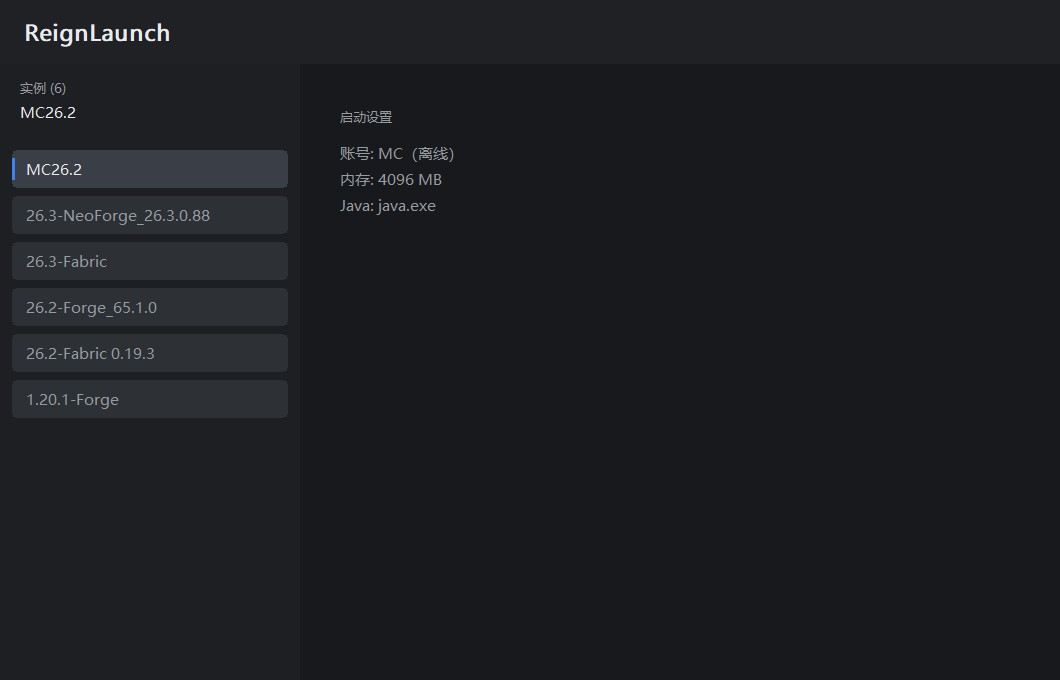
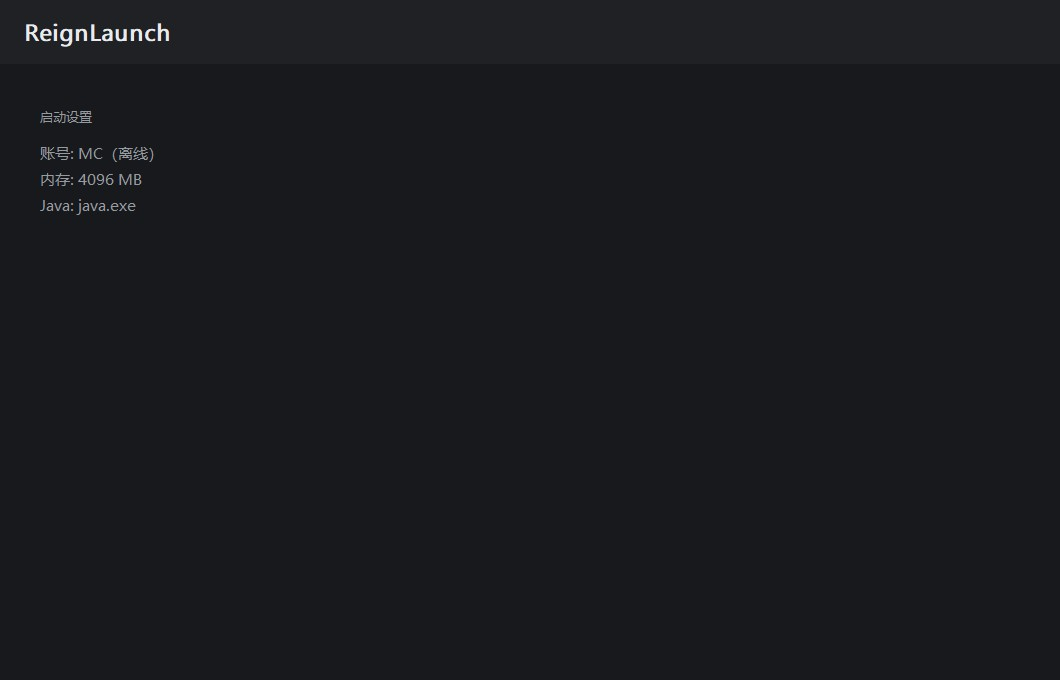
add Instances page; move arrow to right of launch button

diff --git a/src/ReignLaunch.cpp b/src/ReignLaunch.cpp
@@ -42,7 +42,7 @@ using json = nlohmann::json;
 #define IDI_APP         100   // 应用图标
 
 // ============================ 页面 ============================
-enum Page { PAGE_LAUNCH = 0, PAGE_USER = 1, PAGE_SETTINGS = 2, PAGE_ABOUT = 3 };
+enum Page { PAGE_LAUNCH = 0, PAGE_USER = 1, PAGE_SETTINGS = 2, PAGE_ABOUT = 3, PAGE_INSTANCES = 4 };
 
 // ============================ 配置 ============================
 struct Config {
@@ -81,7 +81,7 @@ static HWND g_hwnd = nullptr;
 static HFONT g_fTitle = nullptr, g_fUi = nullptr, g_fSmall = nullptr;
 
 // ============================ 控件 ============================
-static HWND hBtnTabLaunch, hBtnTabUser, hBtnTabSettings, hBtnTabAbout;
+static HWND hBtnTabLaunch, hBtnTabUser, hBtnTabSettings, hBtnTabAbout, hBtnTabInst;
 static HWND hBtnLaunch, hBtnFill, hBtnRefresh, hBtnInstArrow;
 
 static HWND hLblServer, hEdServer, hLblUser, hEdUser, hLblPass, hEdPass;
@@ -1145,6 +1145,7 @@ static std::string        g_loginErr;
 #define ID_TAB_USER     1002
 #define ID_TAB_SET      1003
 #define ID_TAB_ABOUT    1004
+#define ID_TAB_INST     1005
 #define ID_BTN_LAUNCH   1101
 #define ID_BTN_FILL     1102
 #define ID_BTN_REFRESH  1103
@@ -1222,7 +1223,7 @@ static RECT TabRect(int i) {
 static RECT LaunchBtnRect() {
     int pad = Scale(24), bw = Scale(260), bh = Scale(64);
     RECT r;
-    r.right = g_ly.main.right - pad;
+    r.right = g_ly.main.right - pad - Scale(52);
     r.left = r.right - bw;
     r.bottom = g_ly.main.bottom - pad;
     r.top = r.bottom - bh;
@@ -1245,8 +1246,8 @@ static void LayoutControls() {
     int w = g_ly.content.right, h = g_ly.content.bottom;
 
     // 顶部标签
-    HWND tabBtns[3] = { hBtnTabLaunch, hBtnTabUser, hBtnTabSettings };
-    for (int i = 0; i < 3; ++i) {
+    HWND tabBtns[4] = { hBtnTabLaunch, hBtnTabInst, hBtnTabUser, hBtnTabSettings };
+    for (int i = 0; i < 4; ++i) {
         RECT r = TabRect(i);
         MoveWindow(tabBtns[i], r.left, r.top, r.right - r.left, r.bottom - r.top, TRUE);
     }
@@ -1255,7 +1256,7 @@ static void LayoutControls() {
     {
         RECT b = LaunchBtnRect();
         MoveWindow(hBtnLaunch, b.left, b.top, b.right - b.left, b.bottom - b.top, TRUE);
-        MoveWindow(hBtnInstArrow, b.left - Scale(52), b.top, Scale(44), b.bottom - b.top, TRUE);
+        MoveWindow(hBtnInstArrow, b.right + Scale(8), b.top, Scale(44), b.bottom - b.top, TRUE);
         RECT s0 = SmallBtnRect(0), s1 = SmallBtnRect(1);
         MoveWindow(hBtnFill, s0.left, s0.top, s0.right - s0.left, s0.bottom - s0.top, TRUE);
         MoveWindow(hBtnRefresh, s1.left, s1.top, s1.right - s1.left, s1.bottom - s1.top, TRUE);
@@ -1318,6 +1319,7 @@ static void ShowPage(Page p) {
     ShowWindow(hBtnTabLaunch, SW_SHOW);
     ShowWindow(hBtnTabUser, SW_SHOW);
     ShowWindow(hBtnTabSettings, SW_SHOW);
+    ShowWindow(hBtnTabInst, SW_SHOW);
 
 
 
@@ -1573,50 +1575,12 @@ static void PaintMain(HDC dc, int w, int h) {
 
     // 当前页标题
     RECT pt = { g_ly.main.left + Scale(40), g_ly.content.top + Scale(12), g_ly.main.right, g_ly.content.top + Scale(44) };
-    const wchar_t* titles[] = { L"", L"用户", L"设置", L"关于" };
+    const wchar_t* titles[] = { L"", L"用户", L"设置", L"关于", L"" };
     if (g_page != PAGE_LAUNCH && g_page != PAGE_ABOUT) DrawTextIn(dc, titles[g_page], pt, C_DIM, g_fSmall);
 
     if (g_page == PAGE_LAUNCH) {
-        // 侧栏
-        RECT sb = g_ly.sidebar;
-        HBRUSH sbb = CreateSolidBrush(RGB(30, 31, 35));
-        FillRect(dc, &sb, sbb);
-        DeleteObject(sbb);
-
-        RECT lbl = { sb.left + Scale(20), sb.top + Scale(12), sb.right, sb.top + Scale(36) };
-        DrawTextIn(dc, L"实例 (" + std::to_wstring(g_versions.size()) + L")", lbl, C_DIM, g_fSmall);
-
-        std::wstring curInst = (g_selVersion >= 0 && g_selVersion < (int)g_versions.size())
-            ? U8ToW(g_versions[g_selVersion]) : std::wstring(L"（未选择）");
-        RECT curLbl = { sb.left + Scale(20), sb.top + Scale(32), sb.right - Scale(12), sb.top + Scale(64) };
-        DrawTextIn(dc, curInst, curLbl, C_TEXT, g_fUi);
-
-        int itemH = Scale(46);
-        int y = sb.top + Scale(86) - g_listScroll;
-        for (size_t i = 0; i < g_versions.size(); ++i) {
-            RECT item = { sb.left + Scale(12), y, sb.right - Scale(12), y + itemH - Scale(8) };
-            if (item.bottom > sb.top + Scale(86) && item.top < sb.bottom) {
-                bool sel = ((int)i == g_selVersion);
-                FillRoundRect(dc, item, 8, sel ? C_CARD_SEL : C_CARD);
-                RECT tx = item; tx.left += Scale(14);
-                DrawTextIn(dc, U8ToW(g_versions[i]), tx, sel ? C_TEXT : C_DIM, g_fUi);
-                if (sel) {
-                    RECT bar = { item.left, item.top + Scale(8), item.left + Scale(3), item.bottom - Scale(8) };
-                    HBRUSH b = CreateSolidBrush(C_ACCENT2);
-                    FillRect(dc, &bar, b);
-                    DeleteObject(b);
-                }
-            }
-            y += itemH;
-        }
-        if (g_versions.empty()) {
-            RECT e = { sb.left + Scale(20), sb.top + Scale(60), sb.right - Scale(20), sb.top + Scale(150) };
-            DrawTextIn(dc, L"没有找到版本\n请到【设置】里\n指定 .minecraft 目录", e, C_DIM, g_fSmall,
-                       DT_LEFT | DT_TOP | DT_WORDBREAK);
-        }
-
         // 主区信息
-        int x = g_ly.main.left + Scale(40);
+        int x = g_ly.content.left + Scale(40);
         RECT l1 = { x, g_ly.content.top + Scale(40), g_ly.main.right, g_ly.content.top + Scale(66) };
         DrawTextIn(dc, L"启动设置", l1, C_DIM, g_fSmall);
 
@@ -1686,6 +1650,37 @@ static void PaintMain(HDC dc, int w, int h) {
         DrawTextIn(dc, L"支持 authlib-injector 协议的认证服务器（如 LittleSkin）。\n"
                        L"authlib-injector 已内置在程序里，无需外部 jar。",
                    hint, C_DIM, g_fSmall, DT_LEFT | DT_TOP | DT_WORDBREAK);
+    }
+    else if (g_page == PAGE_INSTANCES) {
+        int x   = g_ly.content.left + Scale(24);
+        int top = g_ly.content.top + Scale(16);
+
+        RECT lbl = { x, top, g_ly.content.right - Scale(24), top + Scale(26) };
+        DrawTextIn(dc, L"实例 (" + std::to_wstring(g_versions.size()) + L")", lbl, C_DIM, g_fSmall);
+
+        int itemH = Scale(56);
+        int y = top + Scale(34) - g_listScroll;
+        for (size_t i = 0; i < g_versions.size(); ++i) {
+            RECT item = { x, y, g_ly.content.right - Scale(24), y + itemH - Scale(8) };
+            if (item.bottom > top + Scale(34) && item.top < g_ly.content.bottom) {
+                bool sel = ((int)i == g_selVersion);
+                FillRoundRect(dc, item, 8, sel ? C_CARD_SEL : C_CARD);
+                RECT tx = item; tx.left += Scale(16); tx.right -= Scale(12);
+                DrawTextIn(dc, U8ToW(g_versions[i]), tx, sel ? C_TEXT : C_DIM, g_fUi);
+                if (sel) {
+                    RECT bar = { item.left, item.top + Scale(8), item.left + Scale(3), item.bottom - Scale(8) };
+                    HBRUSH b = CreateSolidBrush(C_ACCENT2);
+                    FillRect(dc, &bar, b);
+                    DeleteObject(b);
+                }
+            }
+            y += itemH;
+        }
+        if (g_versions.empty()) {
+            RECT e = { x, top + Scale(50), g_ly.content.right - Scale(24), top + Scale(140) };
+            DrawTextIn(dc, L"没有找到实例\n请到【设置】里指定 .minecraft 目录", e, C_DIM, g_fSmall,
+                       DT_LEFT | DT_TOP | DT_WORDBREAK);
+        }
     }
     else if (g_page == PAGE_ABOUT) {
         DrawAboutBlock(dc);
@@ -1923,6 +1918,7 @@ static LRESULT CALLBACK MainProc(HWND hwnd, UINT msg, WPARAM wp, LPARAM lp) {
         hBtnTabUser     = MakeBtn(hwnd, L"用户", ID_TAB_USER);
         hBtnTabSettings = MakeBtn(hwnd, L"设置", ID_TAB_SET);
         hBtnTabAbout    = MakeBtn(hwnd, L"关于", ID_TAB_ABOUT);
+        hBtnTabInst     = MakeBtn(hwnd, L"实例", ID_TAB_INST);
 
         hBtnLaunch  = MakeBtn(hwnd, L"启动游戏", ID_BTN_LAUNCH);
         hBtnFill    = MakeBtn(hwnd, L"补全文件", ID_BTN_FILL);
@@ -1989,11 +1985,12 @@ static LRESULT CALLBACK MainProc(HWND hwnd, UINT msg, WPARAM wp, LPARAM lp) {
 
         int id = (int)d->CtlID;
         bool accent = (id == ID_BTN_LAUNCH || id == ID_BTN_LOGIN || id == ID_BTN_SAVE);
-        bool tab = (id == ID_TAB_LAUNCH || id == ID_TAB_USER || id == ID_TAB_SET || id == ID_TAB_ABOUT);
+        bool tab = (id == ID_TAB_LAUNCH || id == ID_TAB_USER || id == ID_TAB_SET || id == ID_TAB_ABOUT || id == ID_TAB_INST);
         bool activeTab = tab && ((id == ID_TAB_LAUNCH && g_page == PAGE_LAUNCH) ||
                                  (id == ID_TAB_USER && g_page == PAGE_USER) ||
                                  (id == ID_TAB_SET && g_page == PAGE_SETTINGS) ||
-                                 (id == ID_TAB_ABOUT && g_page == PAGE_ABOUT));
+                                 (id == ID_TAB_ABOUT && g_page == PAGE_ABOUT) ||
+                                 (id == ID_TAB_INST && g_page == PAGE_INSTANCES));
 
         COLORREF bg;
         if (accent) bg = (g_launching && id == ID_BTN_LAUNCH) ? C_CARD : (sel ? RGB(29, 78, 216) : C_ACCENT);
@@ -2055,6 +2052,19 @@ static LRESULT CALLBACK MainProc(HWND hwnd, UINT msg, WPARAM wp, LPARAM lp) {
             }
         }
 
+        if (g_page == PAGE_INSTANCES) {
+            int itemH = Scale(56);
+            int top = g_ly.content.top + Scale(16) + Scale(34);
+            if (pt.y >= top) {
+                int idx = (pt.y - top + g_listScroll) / itemH;
+                if (idx >= 0 && idx < (int)g_versions.size()) {
+                    g_selVersion = idx;
+                    InvalidateRect(hwnd, nullptr, TRUE);
+                }
+            }
+            return 0;
+        }
+
         if (g_page != PAGE_LAUNCH) return 0;
 
         // 版本列表点击
@@ -2092,6 +2102,7 @@ static LRESULT CALLBACK MainProc(HWND hwnd, UINT msg, WPARAM wp, LPARAM lp) {
         case ID_TAB_USER:   ShowPage(PAGE_USER);   break;
         case ID_TAB_SET:    ShowPage(PAGE_SETTINGS); break;
         case ID_TAB_ABOUT:  ShowPage(PAGE_ABOUT);    break;
+        case ID_TAB_INST:   ShowPage(PAGE_INSTANCES); break;
 
         case ID_BTN_REFRESH:
             ScanVersions();

diff --git a/README.md b/README.md
@@ -35,7 +35,7 @@
 - 官方源失败自动切 **BMCLAPI 镜像**
 
 ### 界面
-- 三个页面：启动 / 用户 / 设置，全部在主窗口内切换，无弹窗式设置；「关于」在设置页左侧子菜单里
+- 四个页面：启动 / 实例 / 用户 / 设置，全部在主窗口内切换，无弹窗式设置；「关于」在设置页左侧子菜单里
 - 游戏目录与 Java 路径支持 **▾ 浮层列表**：Java 条目带版本号（读 JDK 的 `release` 文件，不启动 java.exe）
 - 进度条：`正在补全文件 120 / 345`、`正在启动游戏…`
 - 日志默认不显示，**只有游戏出错才弹独立错误窗口**（带复制日志按钮）
